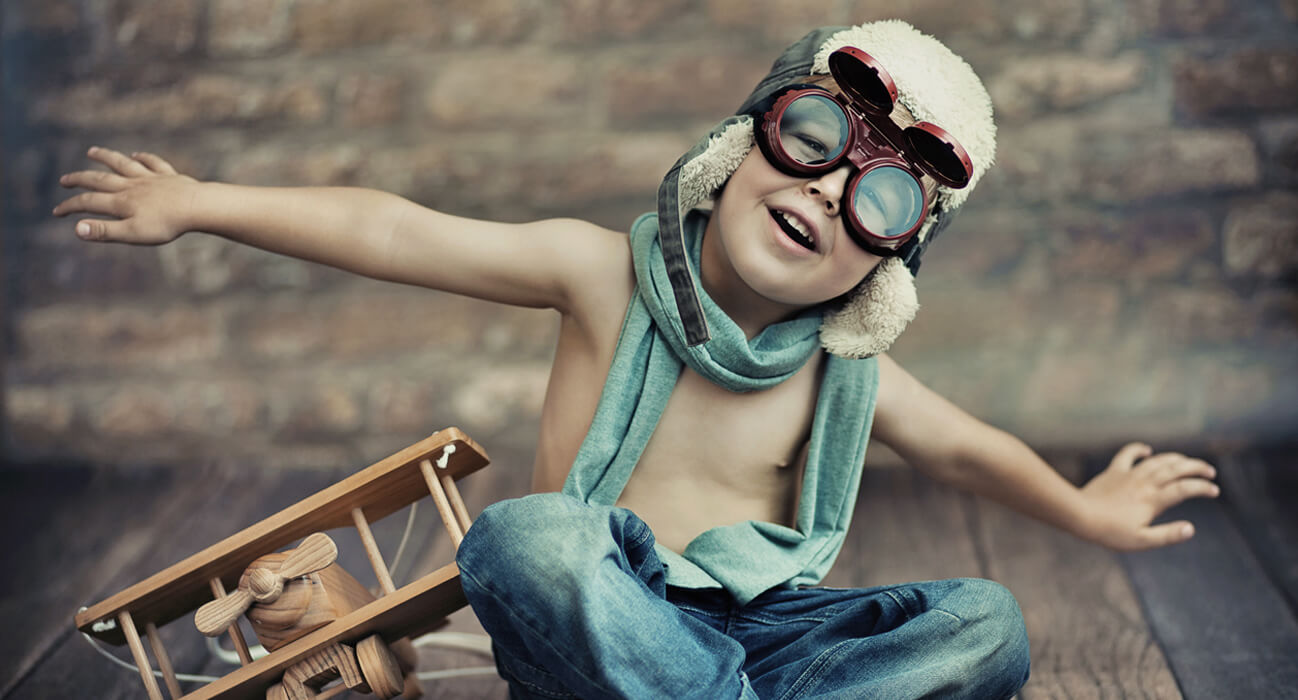
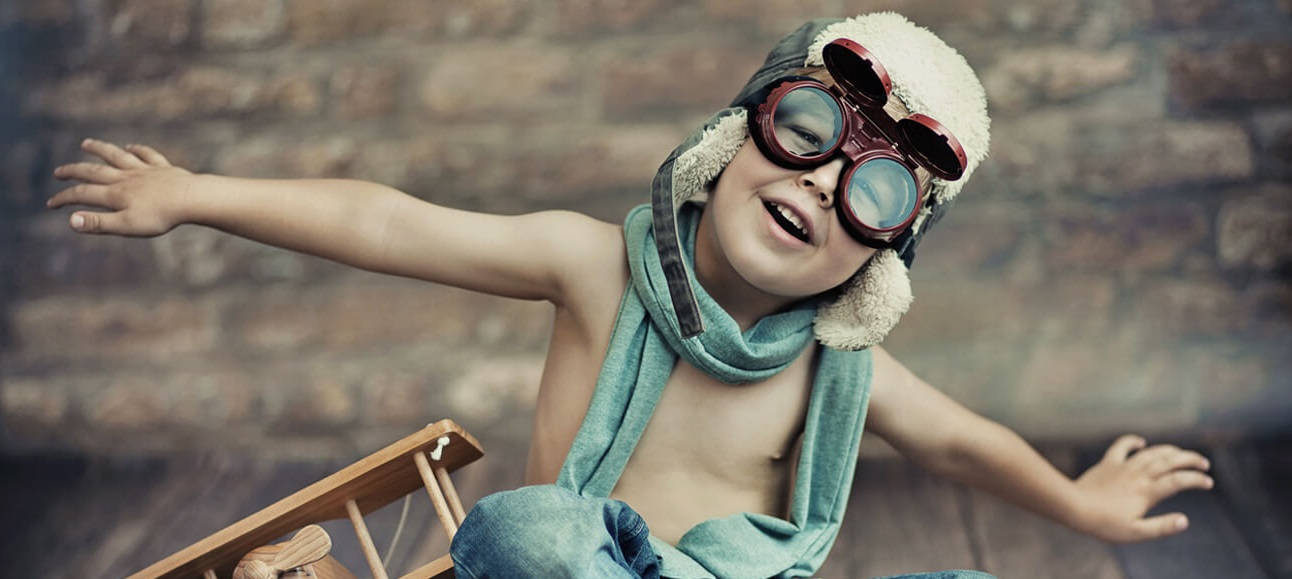
modified slider background

diff --git a/assets/scss/templates/_slider.scss b/assets/scss/templates/_slider.scss
@@ -2,10 +2,16 @@
   background-repeat: no-repeat;
   background-size: cover;
   background-attachment: fixed;
-  background-position: 10% 0%;
-  padding: 200px 0 280px 0;
+  background-position: center center;
+  padding: 170px 0 200px;
   position: relative;
   @extend .overly;
+  @include tablet {
+    padding: 150px 0;
+    h1{
+      font-size: 35px;
+    }
+  }
 
   .block {
     color: #E3E3E4;
